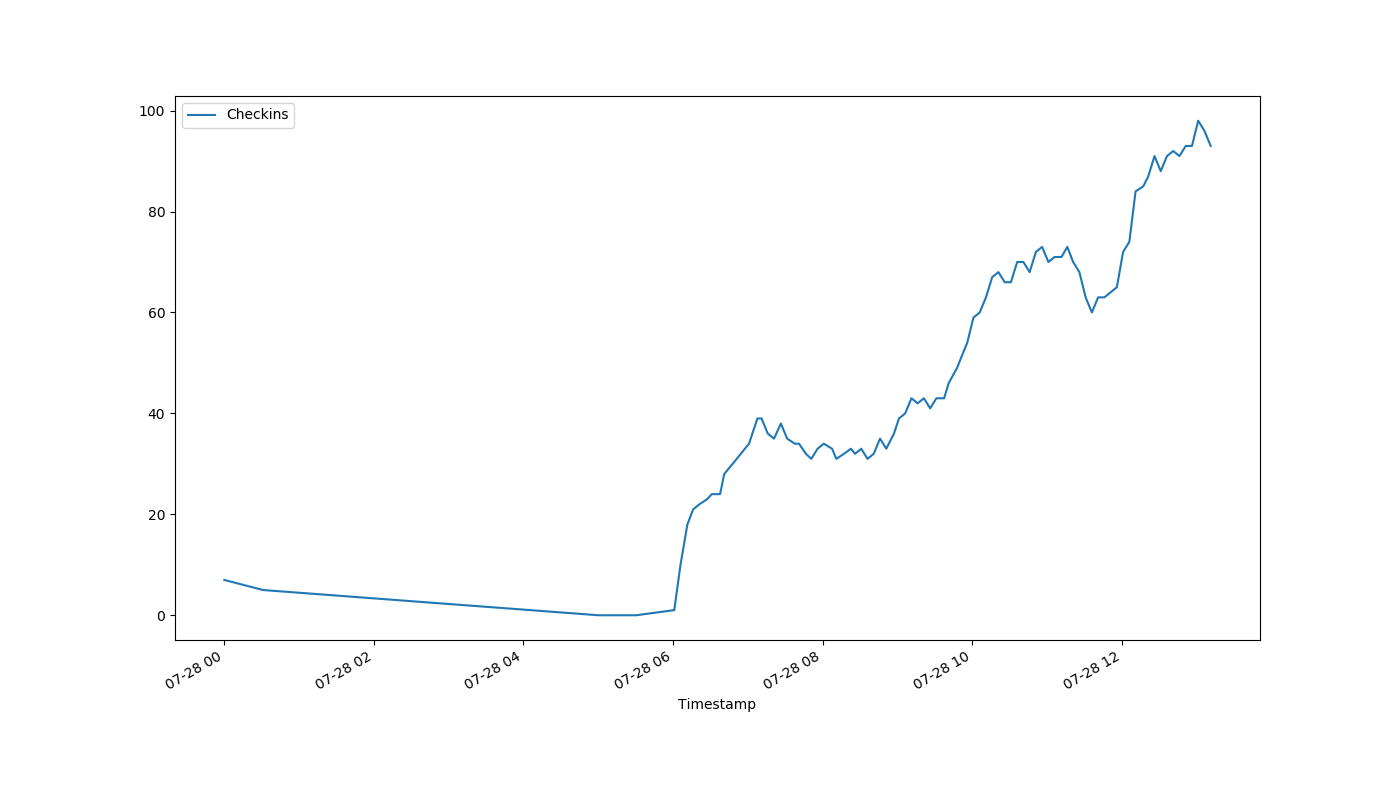
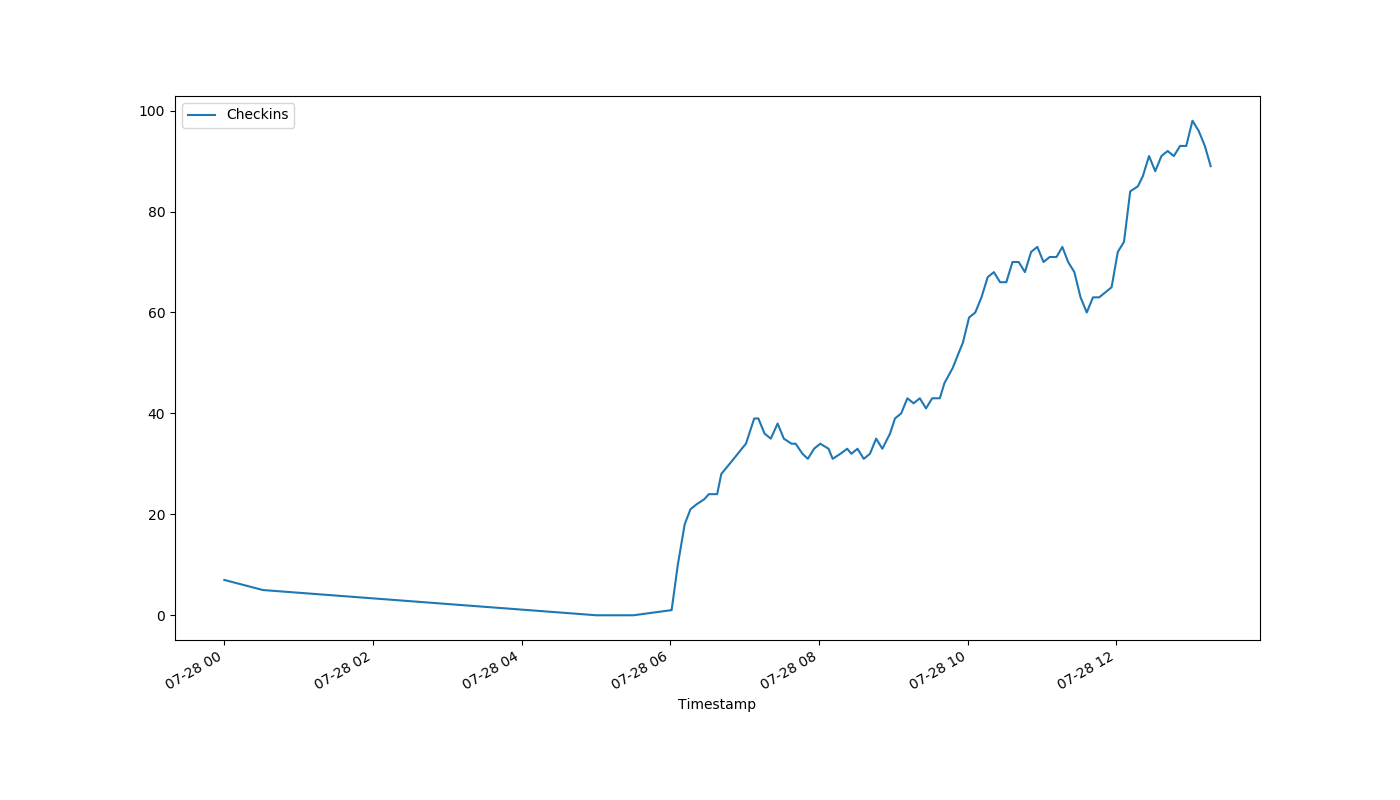
auto-Jul-28-13:17:26

diff --git a/index.html b/index.html
@@ -1,1 +1,1 @@
-<!DOCTYPE html><html><head><meta http-equiv="refresh" content="30"><link rel='stylesheet' href='holmcurrent.css'></head><body><p id='count'>93</p><div id='graph-wrap'><img id='graph' src='holmgraph-Jul-28.png'></div><p id='updated'>Last updated 13:12:02 / 13:11:18</p></body></html>
+<!DOCTYPE html><html><head><meta http-equiv="refresh" content="30"><link rel='stylesheet' href='holmcurrent.css'></head><body><p id='count'>89</p><div id='graph-wrap'><img id='graph' src='holmgraph-Jul-28.png'></div><p id='updated'>Last updated 13:16:02 / 13:16:00</p></body></html>
